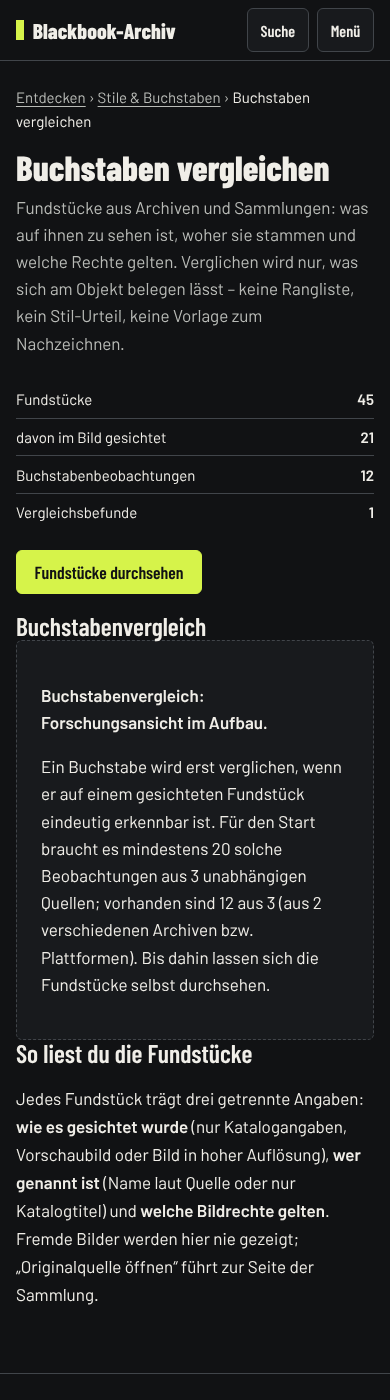
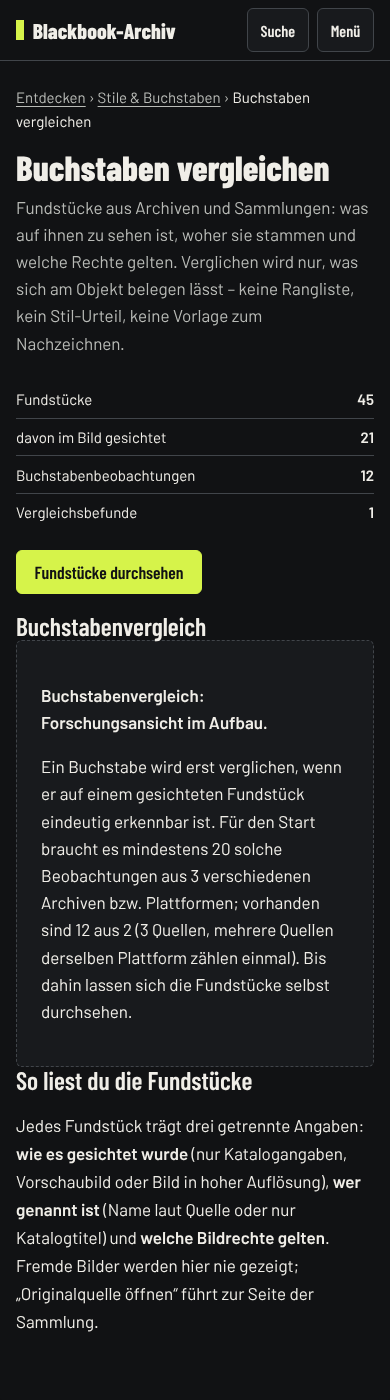
Pilot gate counts distinct archives/platforms (owner decision); contract 1.1.0
Agent: claude
Claude-Session: https://claude.ai/code/session_01FofYydZ98dQJsDhNPhugpd

Changed region(s): [[0.0308, 0.6143, 0.9231, 0.9521]]

diff --git a/archive/comparison.js b/archive/comparison.js
@@ -19,7 +19,7 @@ export function comparisonViews(C, h) {
     const g = C.pilotGate, k = C.counts;
     const glyphPart = g.open
       ? `<p class="orient">${k.eligibleGlyphObservations} Buchstabenbeobachtungen aus ${k.glyphSources} Quellen (${k.glyphInstitutions} Archive bzw. Plattformen).</p>`
-      : `<div class="empty"><p><strong>Buchstabenvergleich: Forschungsansicht im Aufbau.</strong></p><p>Ein Buchstabe wird erst verglichen, wenn er auf einem gesichteten Fundstück eindeutig erkennbar ist. Für den Start braucht es mindestens ${g.minEligibleGlyphObservations} solche Beobachtungen aus ${g.minIndependentSources} unabhängigen Quellen; vorhanden sind ${k.eligibleGlyphObservations} aus ${k.glyphSources} (aus ${k.glyphInstitutions} ${k.glyphInstitutions === 1 ? 'Archiv bzw. Plattform' : 'verschiedenen Archiven bzw. Plattformen'}). Bis dahin lassen sich die Fundstücke selbst durchsehen.</p></div>`;
+      : `<div class="empty"><p><strong>Buchstabenvergleich: Forschungsansicht im Aufbau.</strong></p><p>Ein Buchstabe wird erst verglichen, wenn er auf einem gesichteten Fundstück eindeutig erkennbar ist. Für den Start braucht es mindestens ${g.minEligibleGlyphObservations} solche Beobachtungen aus ${g.minIndependentInstitutions} verschiedenen Archiven bzw. Plattformen; vorhanden sind ${k.eligibleGlyphObservations} aus ${k.glyphInstitutions} (${k.glyphSources} Quellen, mehrere Quellen derselben Plattform zählen einmal). Bis dahin lassen sich die Fundstücke selbst durchsehen.</p></div>`;
     return {
       title: 'Buchstaben vergleichen',
       html: `${crumbs([base[0], [base[1][0]]])}<h1 class="page-title">Buchstaben vergleichen</h1>

diff --git a/tests/archive-comparison.test.js b/tests/archive-comparison.test.js
@@ -42,12 +42,14 @@ test('honest counts: recomputed independently from the source files; pilot gate 
   const published = (o) => ['source-checked', 'editorial-reviewed', 'approved-for-archive'].includes(o.editorialState);
   const eligible = live.observations.glyphObservations.filter((g) => published(g) && inspectedIds.has(g.specimenId));
   const sourcesOf = new Set(eligible.map((g) => specs.find((x) => x.id === g.specimenId).sourceRecordId));
+  const institutionsOf = new Set([...sourcesOf].map((id) => live.sources.sources.find((x) => x.id === id).institution));
   assert.equal(data.counts.specimens, specs.length);
   assert.equal(data.counts.inspectedSpecimens, inspectedIds.size);
   assert.equal(data.counts.eligibleGlyphObservations, eligible.length);
   assert.equal(data.counts.glyphSources, sourcesOf.size);
   const gate = contract.pilotGate.glyphComparison;
-  assert.equal(data.pilotGate.open, eligible.length >= gate.minEligibleGlyphObservations && sourcesOf.size >= gate.minIndependentSources);
+  assert.equal(data.counts.glyphInstitutions, institutionsOf.size);
+  assert.equal(data.pilotGate.open, eligible.length >= gate.minEligibleGlyphObservations && institutionsOf.size >= gate.minIndependentInstitutions, 'gate counts archives/platforms, not source records');
   // Every exported glyph observation sits on an inspected specimen and has German text; none comes from the migrated free text.
   for (const g of data.glyphObservations) { assert.ok(inspectedIds.has(g.specimenId), g.id); assert.ok(g.observationDe.trim(), g.id); }
   assert.deepEqual(migrateManifest(legacy).observations.glyphObservations, []);

diff --git a/src/archive/comparison.js b/src/archive/comparison.js
@@ -146,7 +146,8 @@ export function buildComparison({ contract, sources, specimens, observations, fi
     glyphInstitutions: new Set([...glyphSources].map((id) => srcById.get(id)?.institution ?? id)).size,
     findings: findingsOut.length,
   };
-  const pilotGate = { ...gate, eligible: counts.eligibleGlyphObservations, independentSources: counts.glyphSources, open: counts.eligibleGlyphObservations >= gate.minEligibleGlyphObservations && counts.glyphSources >= gate.minIndependentSources };
+  // Independence is counted by archive/platform (owner decision, contract 1.1.0), not by source record.
+  const pilotGate = { ...gate, eligible: counts.eligibleGlyphObservations, independentInstitutions: counts.glyphInstitutions, open: counts.eligibleGlyphObservations >= gate.minEligibleGlyphObservations && counts.glyphInstitutions >= gate.minIndependentInstitutions };
 
   // ---- output: display fields only ----
   const decade = (d) => (d && /^\d{4}$/.test(d) ? `${d.slice(0, 3)}0er` : null);

diff --git a/docs/CHANGELOG.md b/docs/CHANGELOG.md
@@ -600,3 +600,9 @@
 - Archive UI: `#/vergleich` (overview, counts, pilot-gate status), `#/vergleich/fundstuecke` (search and filters by review state, archive, decade, place, rights), `#/vergleich/fundstueck/<id>` (provenance, status, „Originalquelle öffnen“; no third-party image). Entry points from „Stile & Buchstaben“ and „Bildarchiv“; offline cache v3.
 - Tests: `tests/archive-comparison.test.js` (13); archive smoke covers the new routes (phone/desktop, filters, search, no images, original-source link). Proof screenshots `docs/reports/proof/comparison/`; C06 proof re-captured.
 - Glyph comparison (Gate 3) stays closed: 0 eligible glyph observations. Nothing was inferred from free-text notes.
+
+## 2026-11-19 — Comparison pilot gate counts archives/platforms
+
+- Owner decision: the glyph-comparison pilot gate requires 20 eligible glyph observations from at least 3 different archives/platforms (`contracts/letterform-comparison.v1.json` 1.1.0, `minIndependentInstitutions`). Several source records of one platform (e.g. two forum threads) count once. Current state: 12 observations from 3 source records / 2 platforms; gate closed.
+- Fixed CI after PR #31: missing `visualState` on `ALT-WOSHE-M-MAMMOUTH-01`; count test recomputes from source files.
+- Research for the comparison library is done by ChatGPT only (owner decision); Claude reviews and integrates.

diff --git a/research/archive/comparison/README.md b/research/archive/comparison/README.md
@@ -85,7 +85,7 @@ Nur Tags vergeben, die direkt am Einzelglyph sichtbar sind. Ein Merkmal darf nic
 
 ## Pilot-Gate
 
-Der Buchstabenvergleich in der App öffnet erst ab **20 zulässigen Glyph-Beobachtungen aus mindestens 3 unabhängigen Quellen** (`contracts/letterform-comparison.v1.json` → `pilotGate`). Bis dahin zeigt die App den Fundstück-Browser und nennt den aktuellen Stand.
+Der Buchstabenvergleich in der App öffnet erst ab **20 zulässigen Glyph-Beobachtungen aus mindestens 3 verschiedenen Archiven bzw. Plattformen** (Owner-Entscheidung 19.11.: mehrere Quellen-Records derselben Plattform, z. B. zwei Forum-Threads, zählen einmal) (`contracts/letterform-comparison.v1.json` → `pilotGate`). Bis dahin zeigt die App den Fundstück-Browser und nennt den aktuellen Stand.
 
 ## Offene Bestätigung
 
